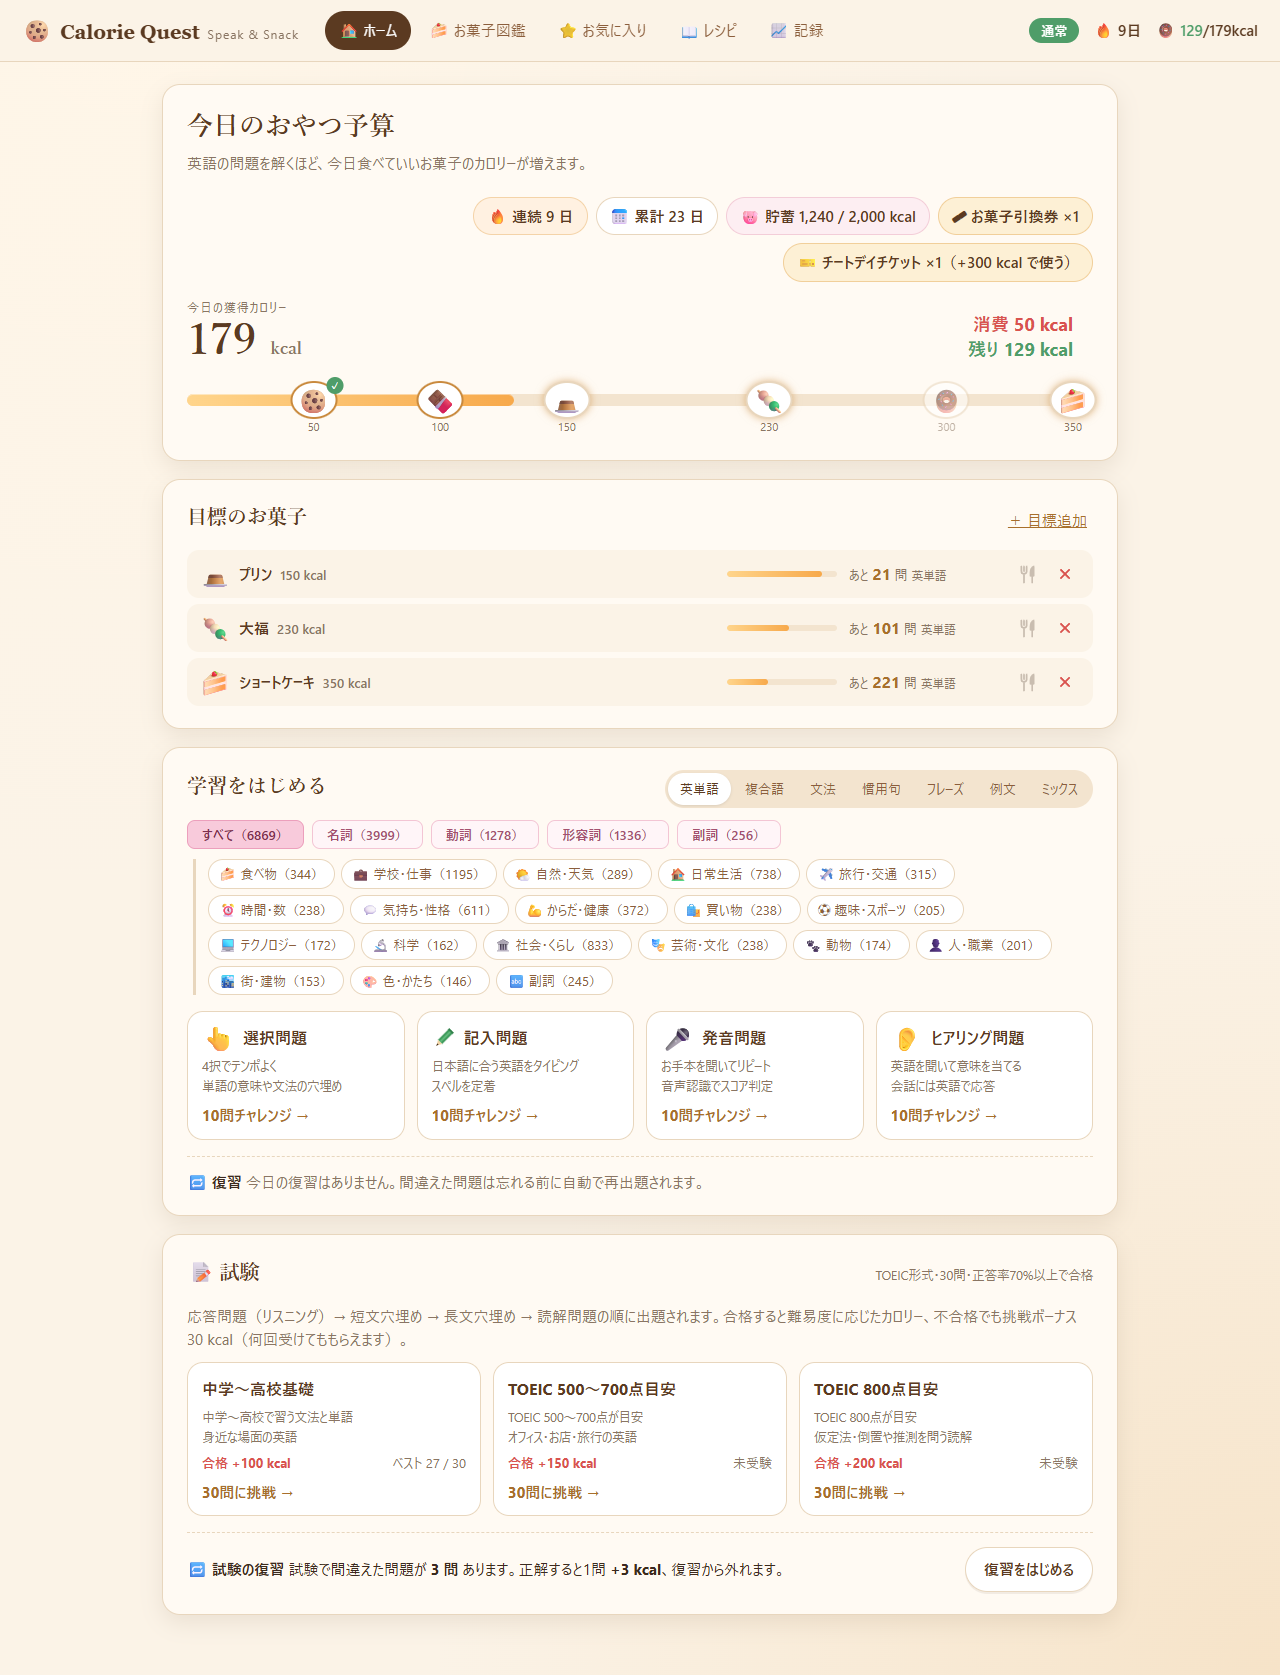
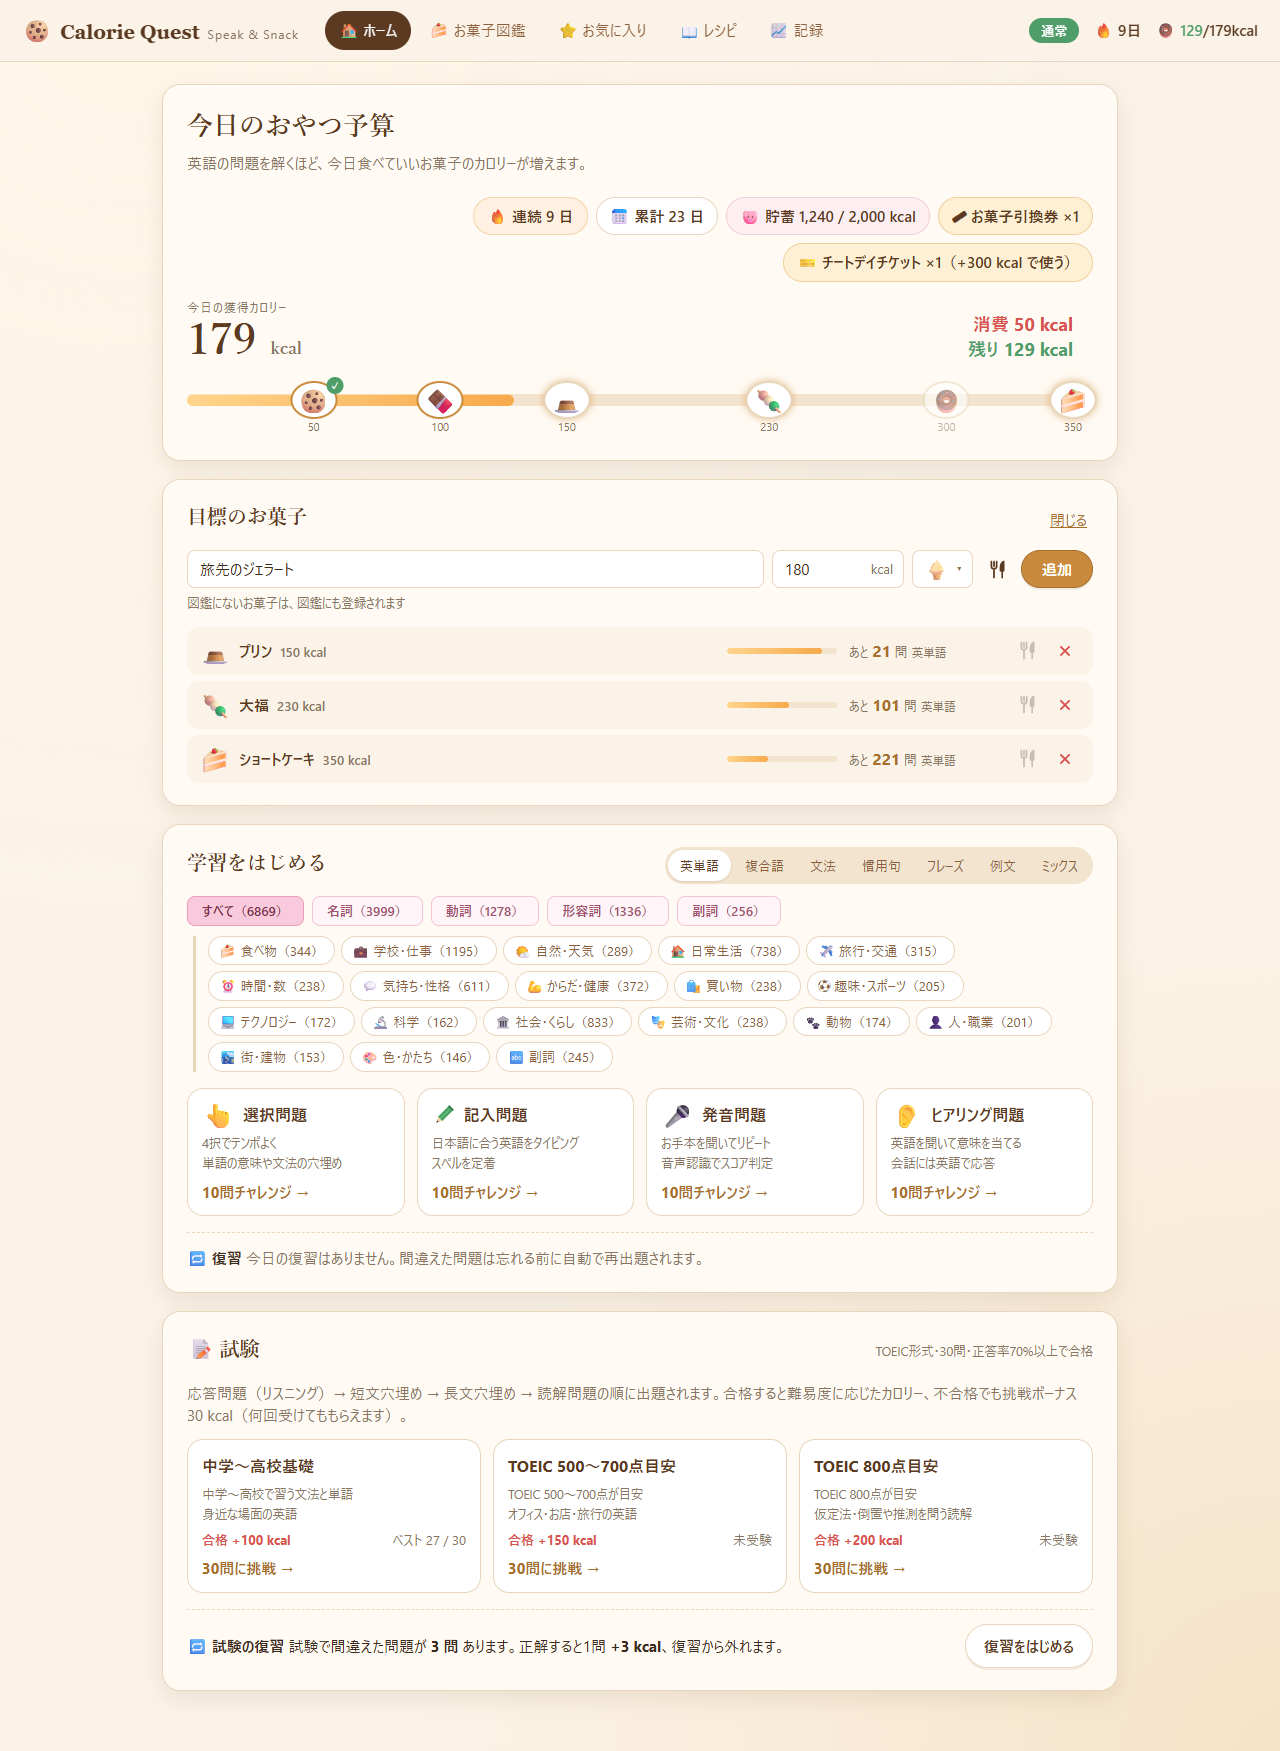
Retake the home screenshot with ＋ 目標追加 open and its knife and fork

diff --git a/README.md b/README.md
@@ -3,7 +3,7 @@
 英語の問題を解くと「今日食べていいお菓子のカロリー」が貯まる、軽量な英語学習ゲームです。
 仕様は [docs/spec.md](docs/spec.md) を参照してください。
 
-![ホーム画面: 右上に遊び方（通常）・連続日数・今日の残り／獲得カロリー（129/179kcal）、今日のおやつ予算（獲得・消費・残りのカロリーと、残りを示すお菓子アイコンのバー）、1行ずつの目標のお菓子（進み具合・あと何問・食べた・削除）、学習をはじめる（分類のタブ、名詞・動詞・形容詞・副詞とジャンルの絞り込み、4つの出題形式）、試験（3つの難易度と試験の復習）](docs/screenshots/home.png)
+![ホーム画面: 右上に遊び方（通常）・連続日数・今日の残り／獲得カロリー（129/179kcal）、今日のおやつ予算（獲得・消費・残りのカロリーと、残りを示すお菓子アイコンのバー）、目標のお菓子（開いた「＋ 目標追加」の1行: 名前「旅先のジェラート」・180 kcal・アイコン・図鑑と目標に追加せず食べるナイフとフォーク・追加。その下に1行ずつの目標（進み具合・あと何問・食べた・削除））、学習をはじめる（分類のタブ、名詞・動詞・形容詞・副詞とジャンルの絞り込み、4つの出題形式）、試験（3つの難易度と試験の復習）](docs/screenshots/home.png)
 
 ## 主な機能
 
